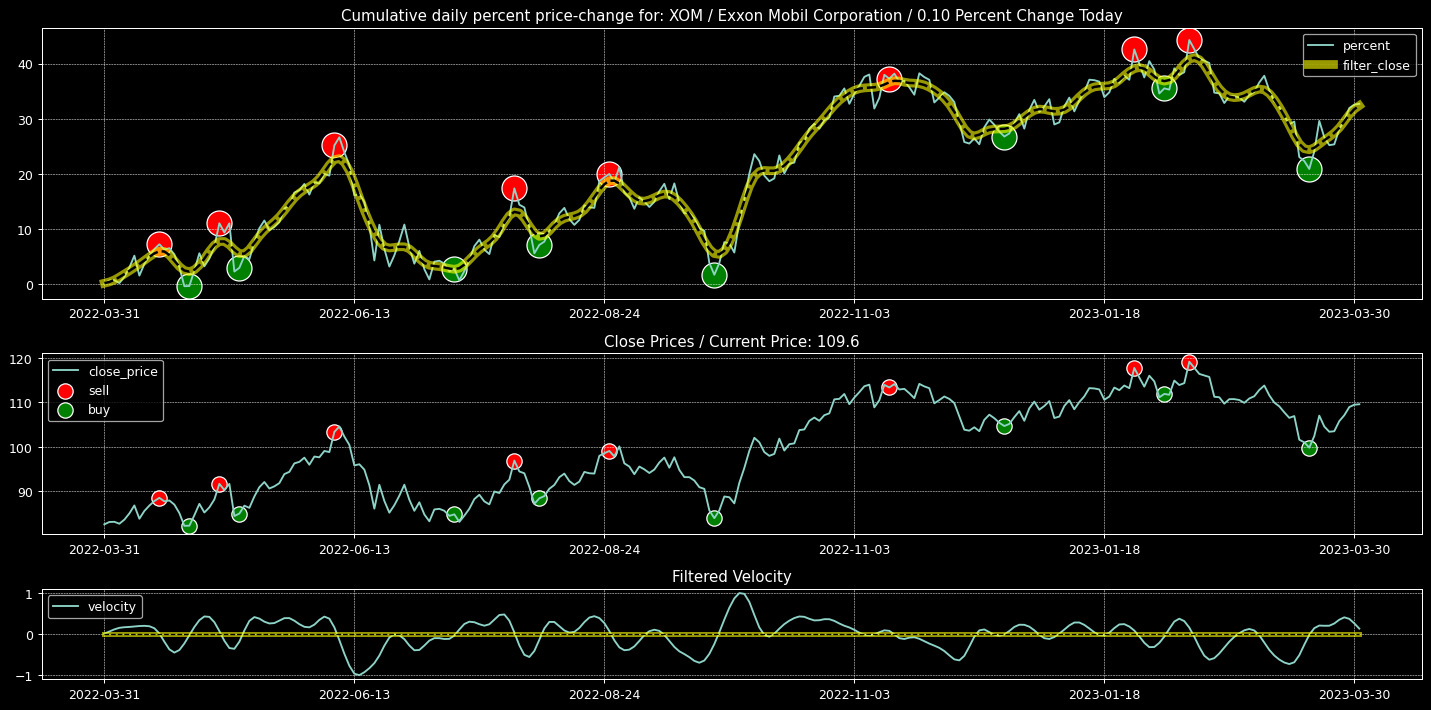
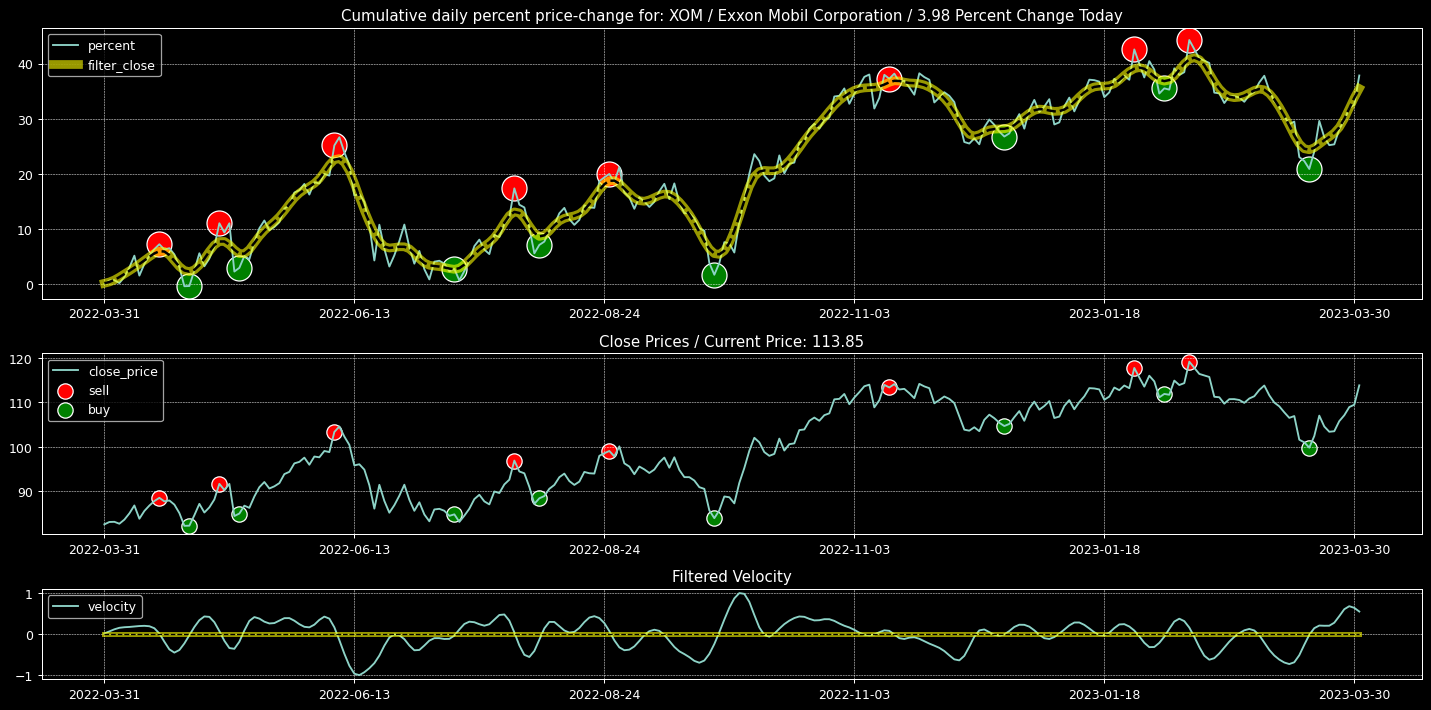
Fixed current_percent_change in script

diff --git a/StockTrendAnalyzer.py b/StockTrendAnalyzer.py
@@ -294,7 +294,7 @@ def compute_circles(symbol, df, window, df_temp):
         sys.exit(0)
     return data_filter, final_min, final_max, first_derivative, df_temp
 
-percent_change_today = (current_price/df["close"].iloc[-2] - 1.0) * hundred
+percent_change_today = df["daily_returns"].iloc[-1]
 
 df_temp = pd.DataFrame(
     index=[symbol],
